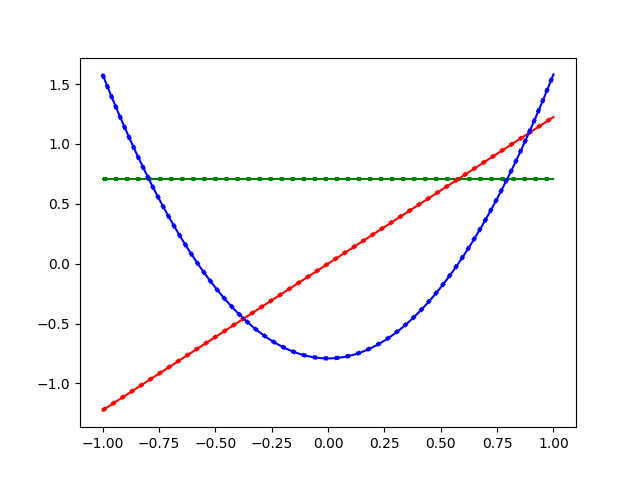
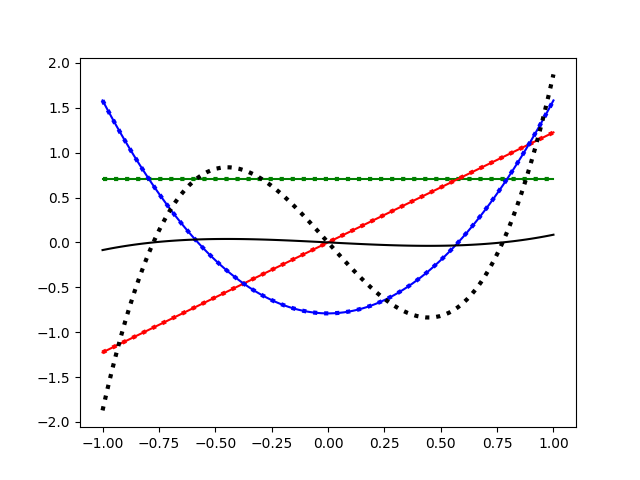
...

diff --git a/ortho_basis.py b/ortho_basis.py
@@ -126,7 +126,7 @@ if __name__ == '__main__':
     import matplotlib.pyplot as plt
     
     v_list = []
-    exponents = np.arange(3)
+    exponents = np.arange(4)
     for d in exponents: 
         def f(x, d=d):
             return x**d
@@ -149,11 +149,12 @@ if __name__ == '__main__':
 
     # Analytical solution for orthonormal basis set (for comparison)
     B_analytical = [np.ones(x.size) * 1/np.sqrt(2),
-                    np.sqrt(3/2)*x,
-                    np.sqrt(45/8)*(x**2-1./3.)]
+                    np.sqrt(3. / 2.)            * x,
+                    np.sqrt(45. / 8.)           * (x**2 - 1. / 3.),
+                    1 * (x**3 - 3. / 5. * x)]
     
     for i in exponents:
         plt.plot(x, B_analytical[i], '%s-'  %colors[i])
         plt.plot(x, B[:, i], '%s:' %colors[i], linewidth=3)
 
-    plt.savefig('Probe.png')
+    plt.savefig('docs/Polynomials.png')

diff --git a/README.md b/README.md
@@ -8,7 +8,7 @@ The used scalar product is defined by
 The method 'get_scalar_product' could be overwritten in order to
 change the scalar product definition or adjust numerical parameters
 as numerical stability is an issue. 
-The stability should be always checked, e.g. by confirming that that scalar products 
+The stability should be always checked, e.g. by confirming that the scalar products 
 between two different orthonormalized functions is zero.
 
 # Examples
